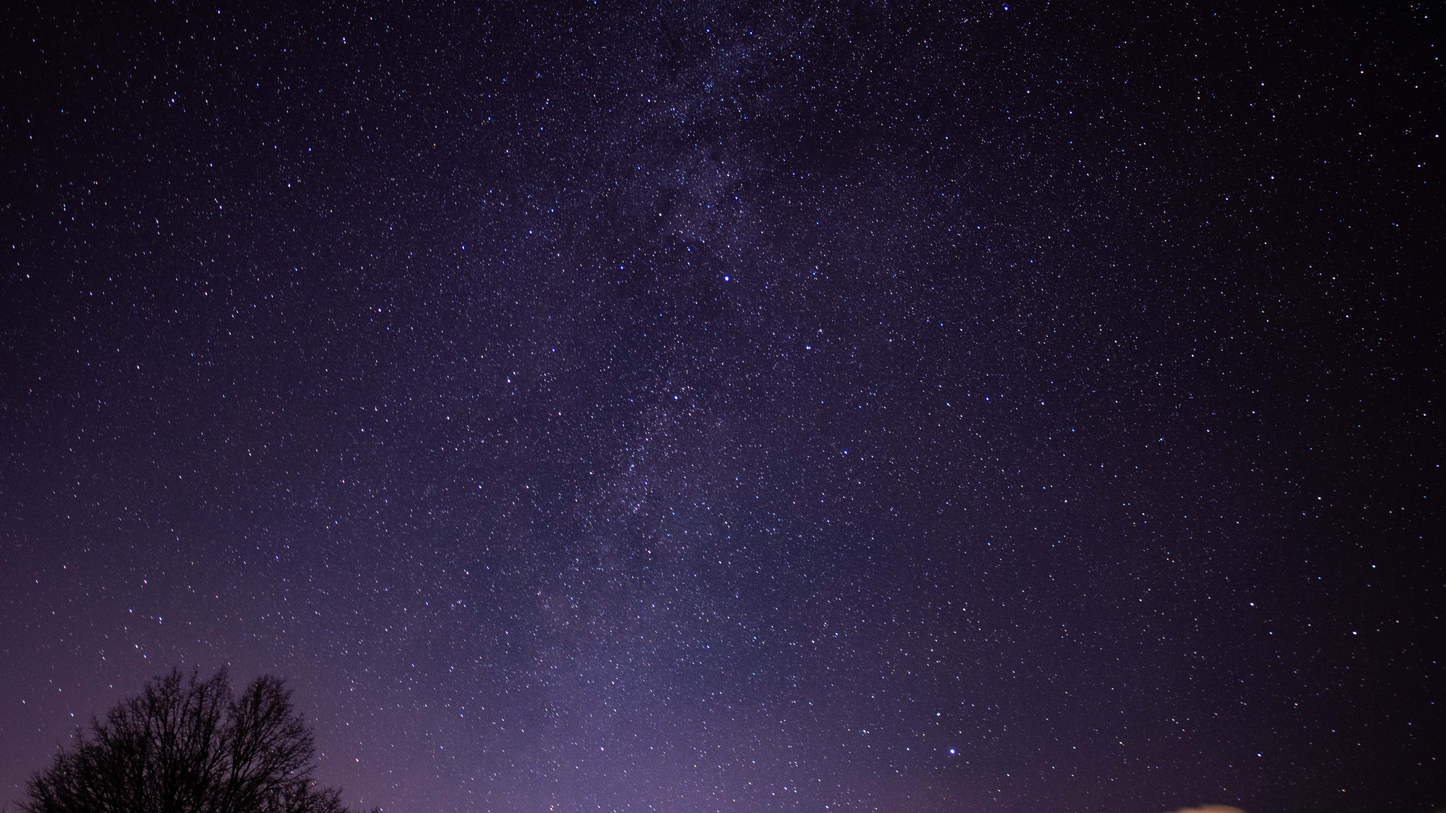
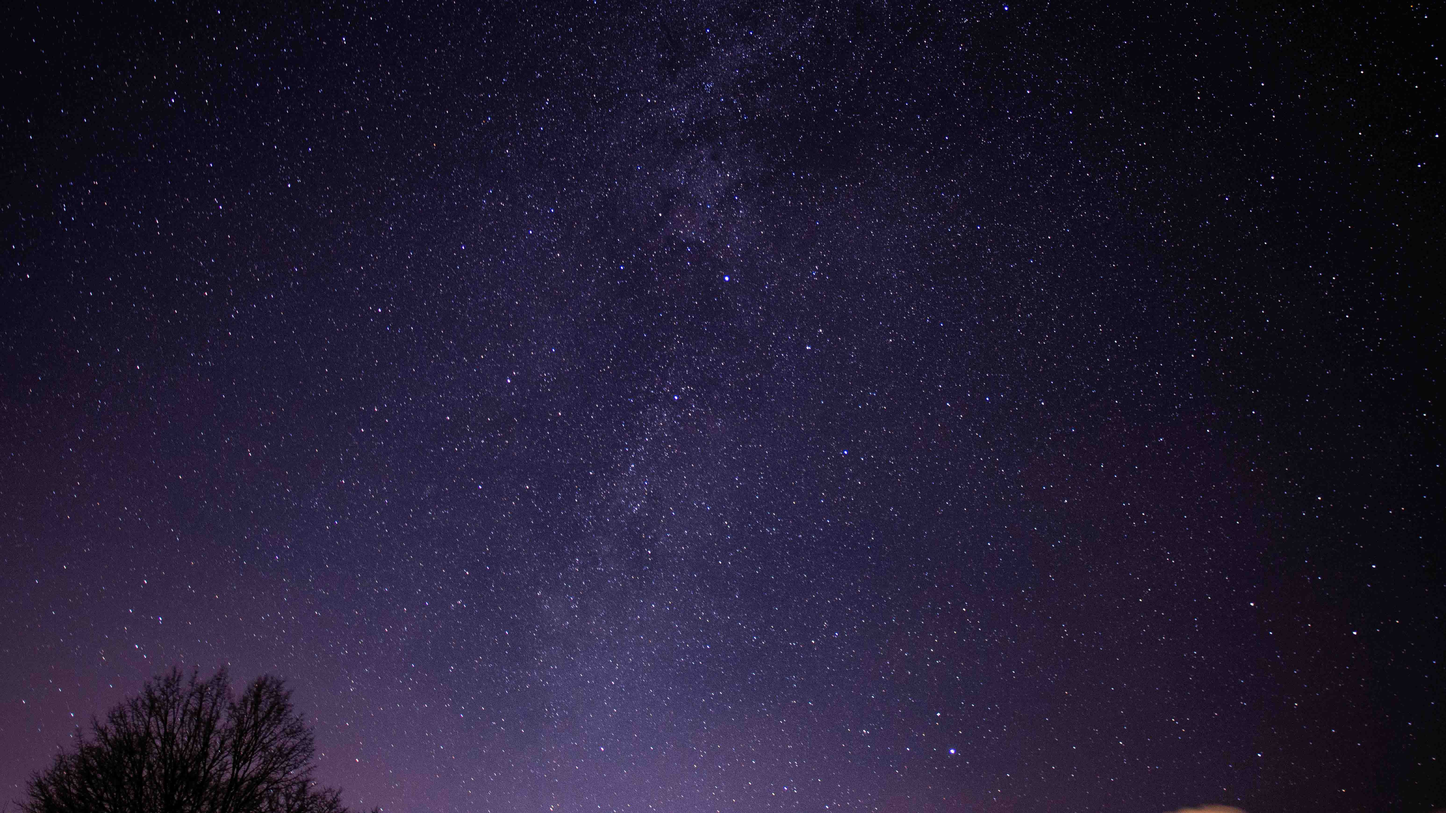
kepek lekicsinyitese, lang javitas

diff --git a/index.html b/index.html
@@ -84,7 +84,7 @@
                 <source src="media/fooldal/Tell_YOUR_Story_with_Photography.mp4" type="video/mp4">                A böngésződ nem támogatja a videólejátszást.
                 </video>
             <figcaption>
-                Tell YOUR Story with Photography – Teljes videó
+                <p lang="en">Tell YOUR Story with Photography</p><p> – Teljes videó</p> 
                 <a href="https://www.youtube.com/watch?v=LrgCa6cDT_0" target="_blank">Anthony Gugliotta YouTube csatornáján</a>
                 <img src="media/fooldal/youtube-icon.png" alt="youtube ikon">
                 <br>
